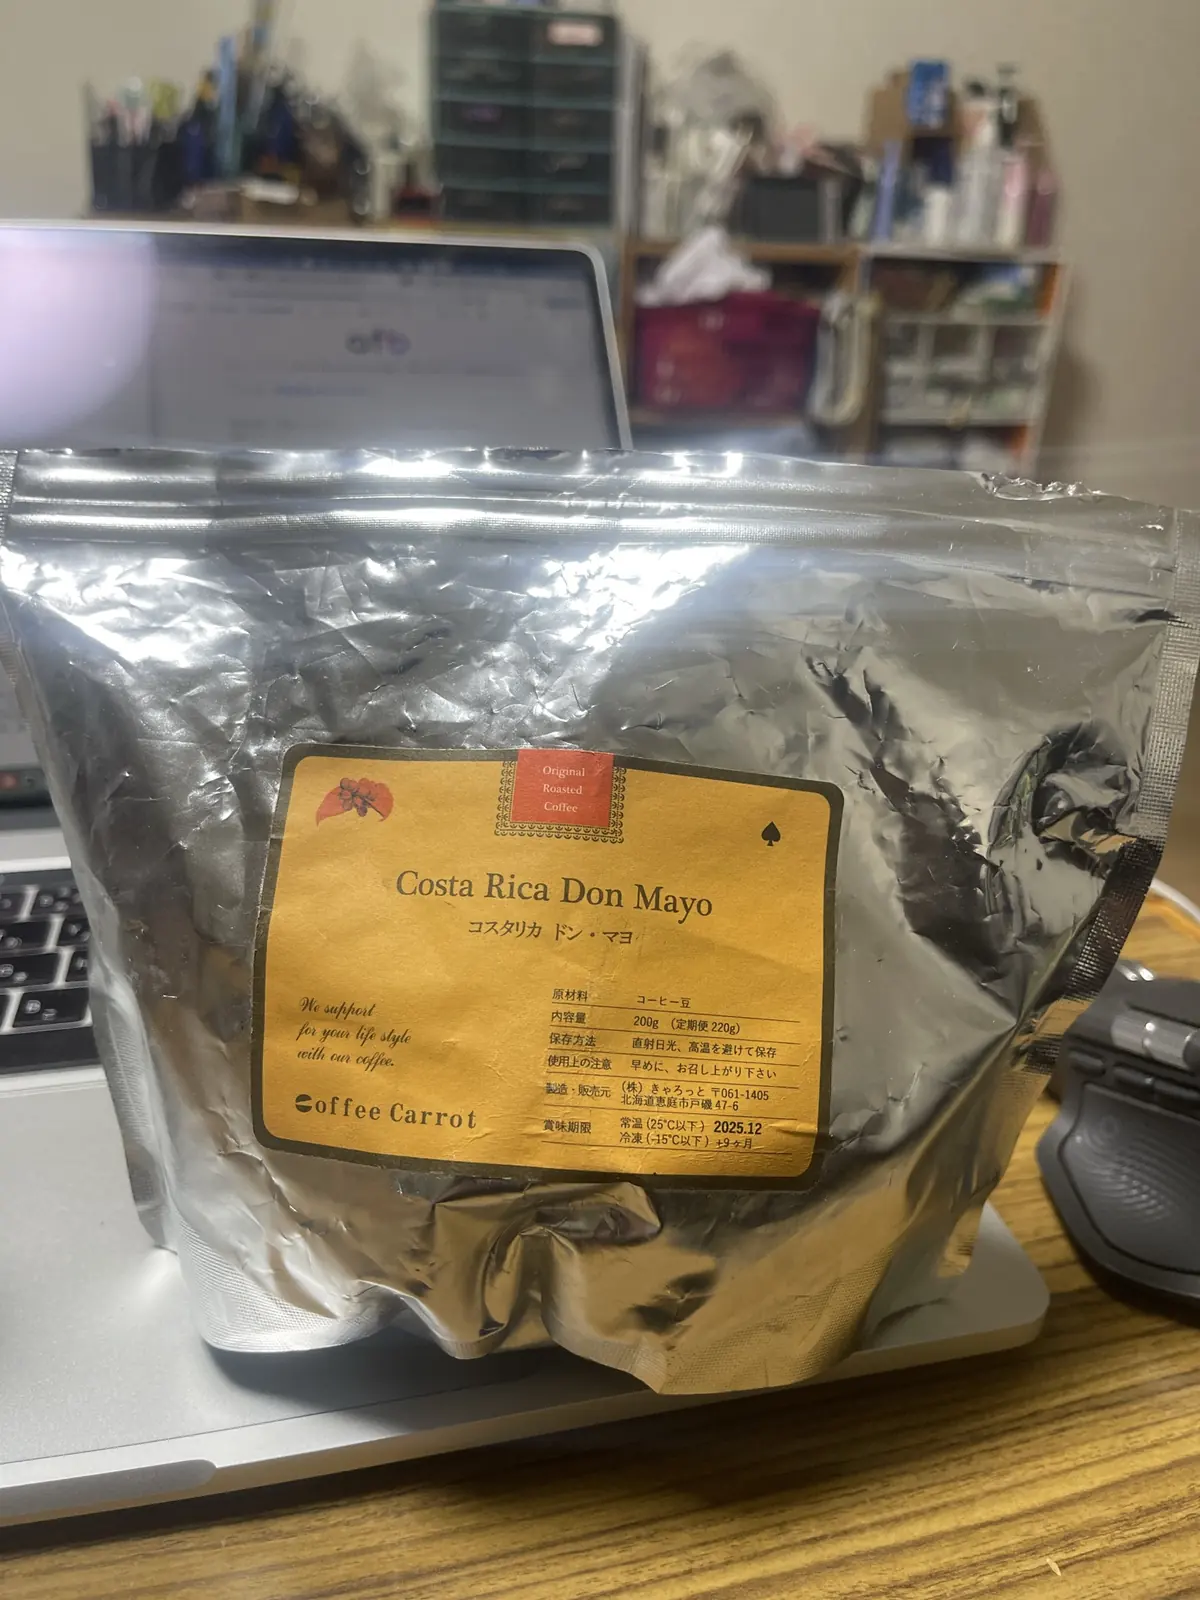
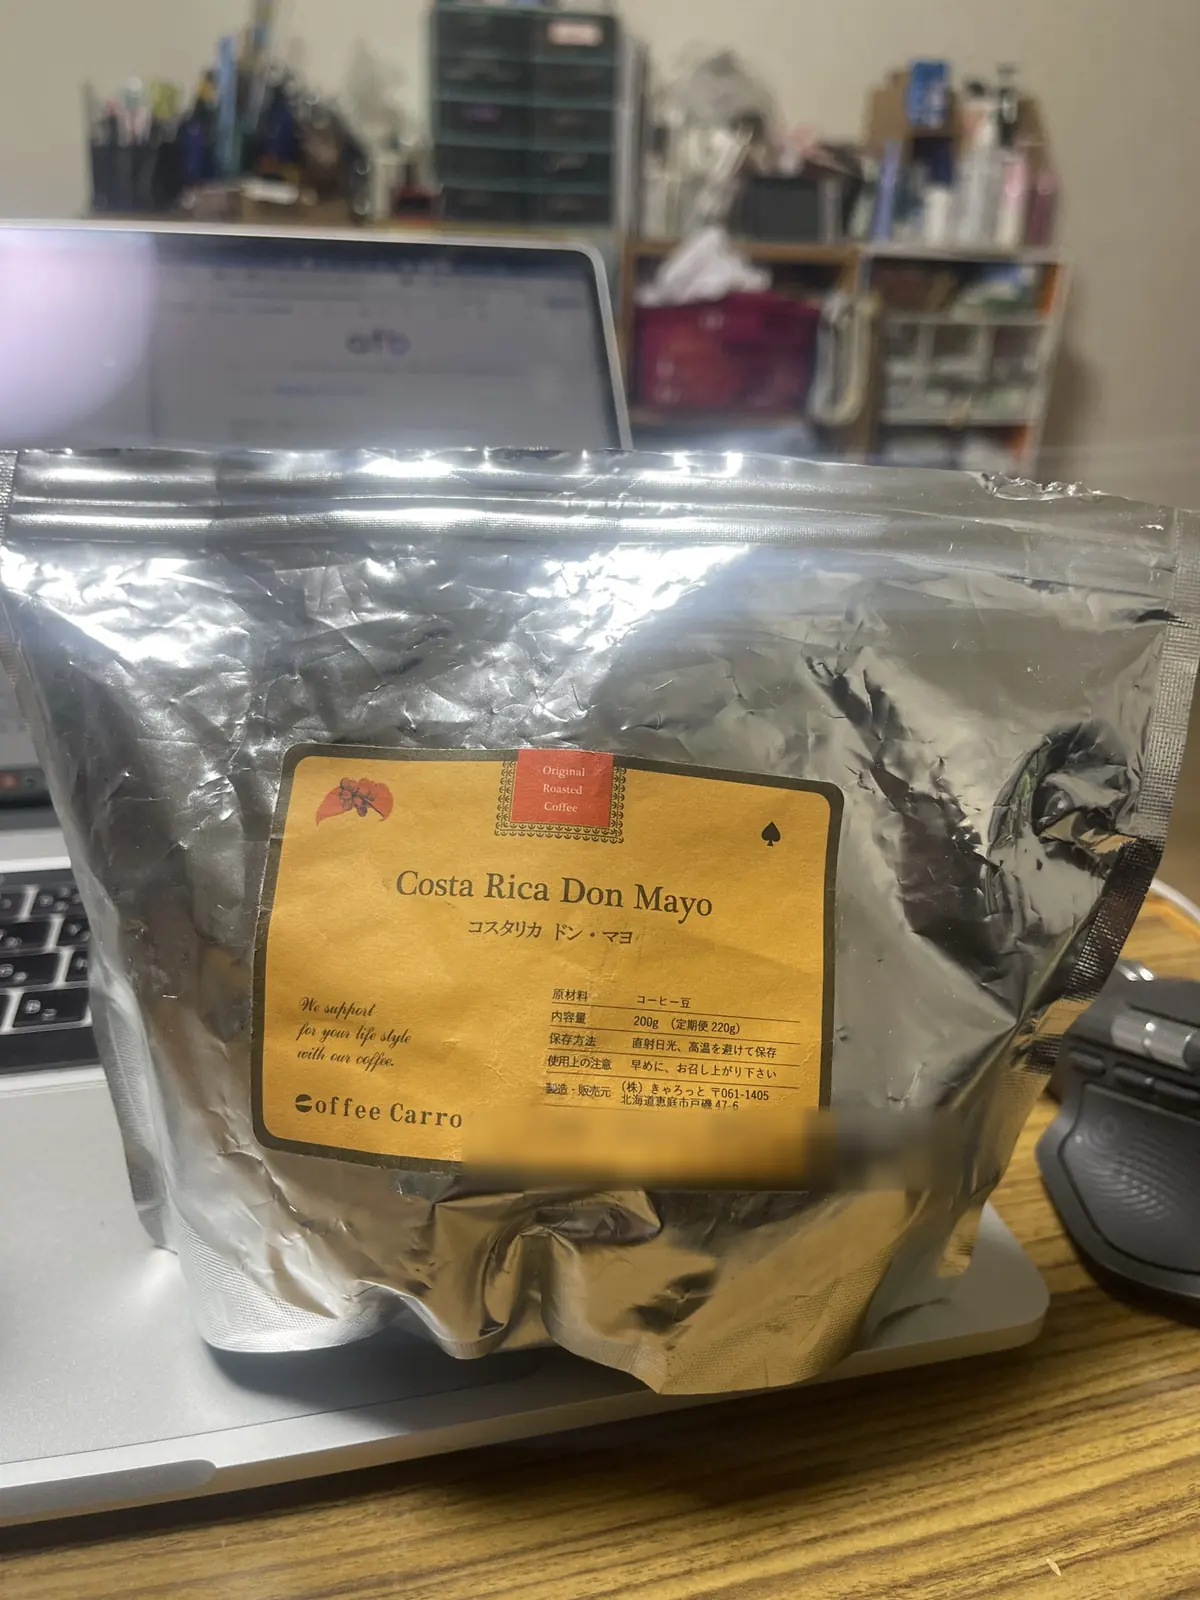
Blur the expiry line on the owner's coffee-bag photos
Rebuild the two Coffee Carrot photos from the original uploads so the best-before rows are unreadable, and drop those dates from the draft caption. Product names stay visible. The draft remains noindex.

Changed region(s): [[0.37, 0.6875, 0.8017, 0.75]]

diff --git a/content/drafts/coffee-subscription-how-to-choose.md b/content/drafts/coffee-subscription-how-to-choose.md
@@ -109,11 +109,11 @@ PR｜この記事は広告を含みます
 
 ![珈琲きゃろっとから届いたマンデリン・スマトラタイガー深煎りの袋。ラベルの内容量は200g（定期便220g）](/images/coffee-carrot-mandheling-sumatra-tiger.webp)
 
-マンデリン・スマトラタイガー、深煎り。ラベルの内容量は200g（定期便220g）です。賞味期限の常温の表示は2025.5、冷凍はそこから3か月、と読めます。
+マンデリン・スマトラタイガー、深煎り。ラベルの内容量は200g（定期便220g）です。
 
 ![珈琲きゃろっとから届いたコスタリカ ドン・マヨの袋。ラベルの内容量は200g（定期便220g）](/images/coffee-carrot-costa-rica-don-mayo.webp)
 
-コスタリカ ドン・マヨ。ラベルの内容量は200g（定期便220g）です。賞味期限の常温の表示は2025.12、冷凍はそこから3か月、と読めます。
+コスタリカ ドン・マヨ。ラベルの内容量は200g（定期便220g）です。
 
 PDFの「1袋220g」と、袋に印刷された「200g（定期便220g）」は、両方を残します。どちらのグラムが中身の実測かは、量っていません。【よんぴー実測：届いた袋の中身の重量＝〇〇g】
 
